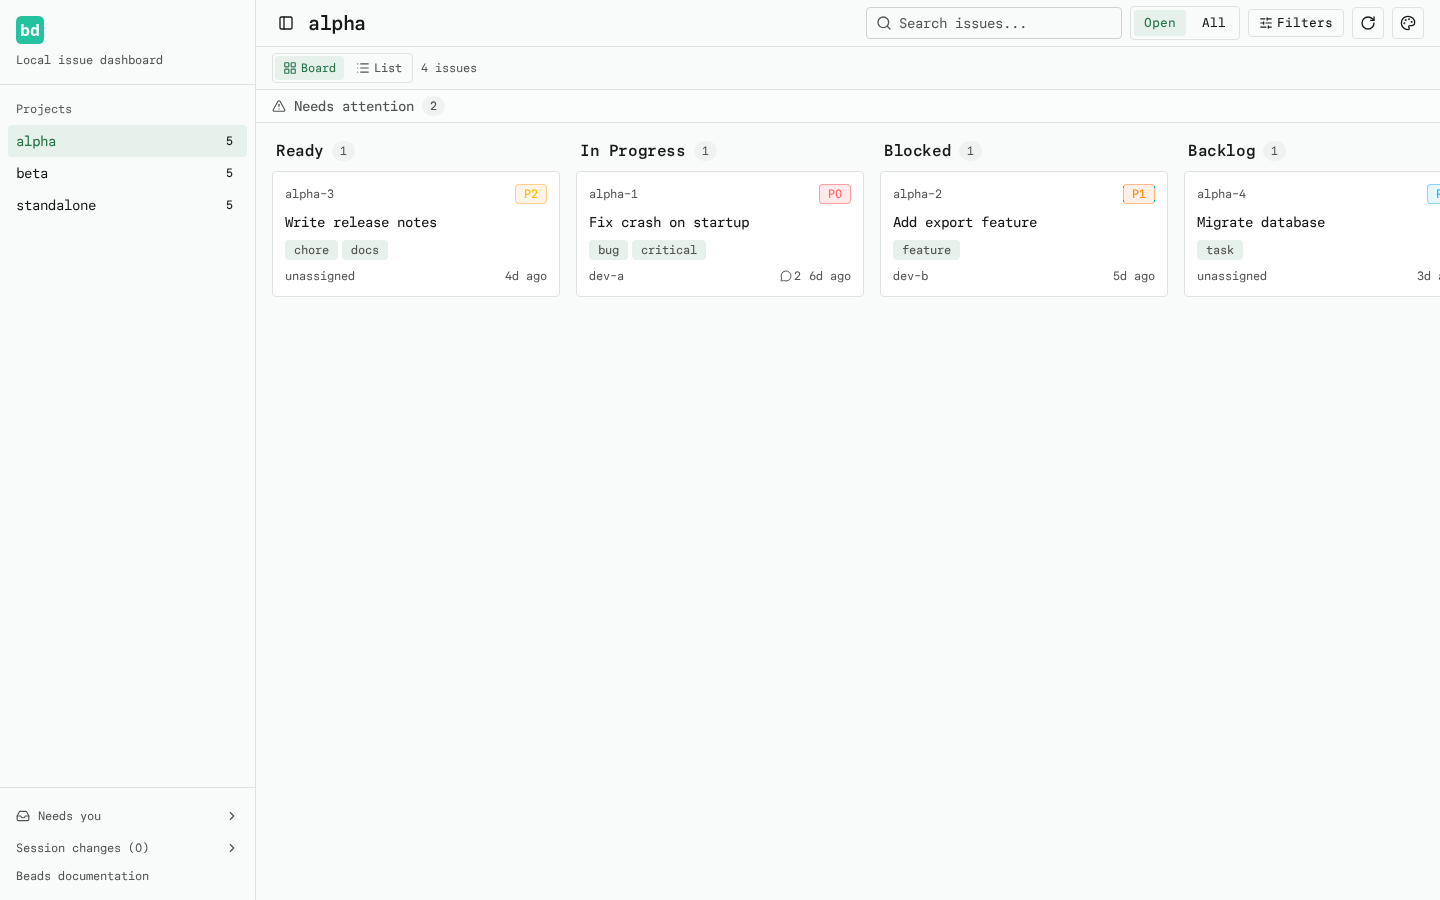
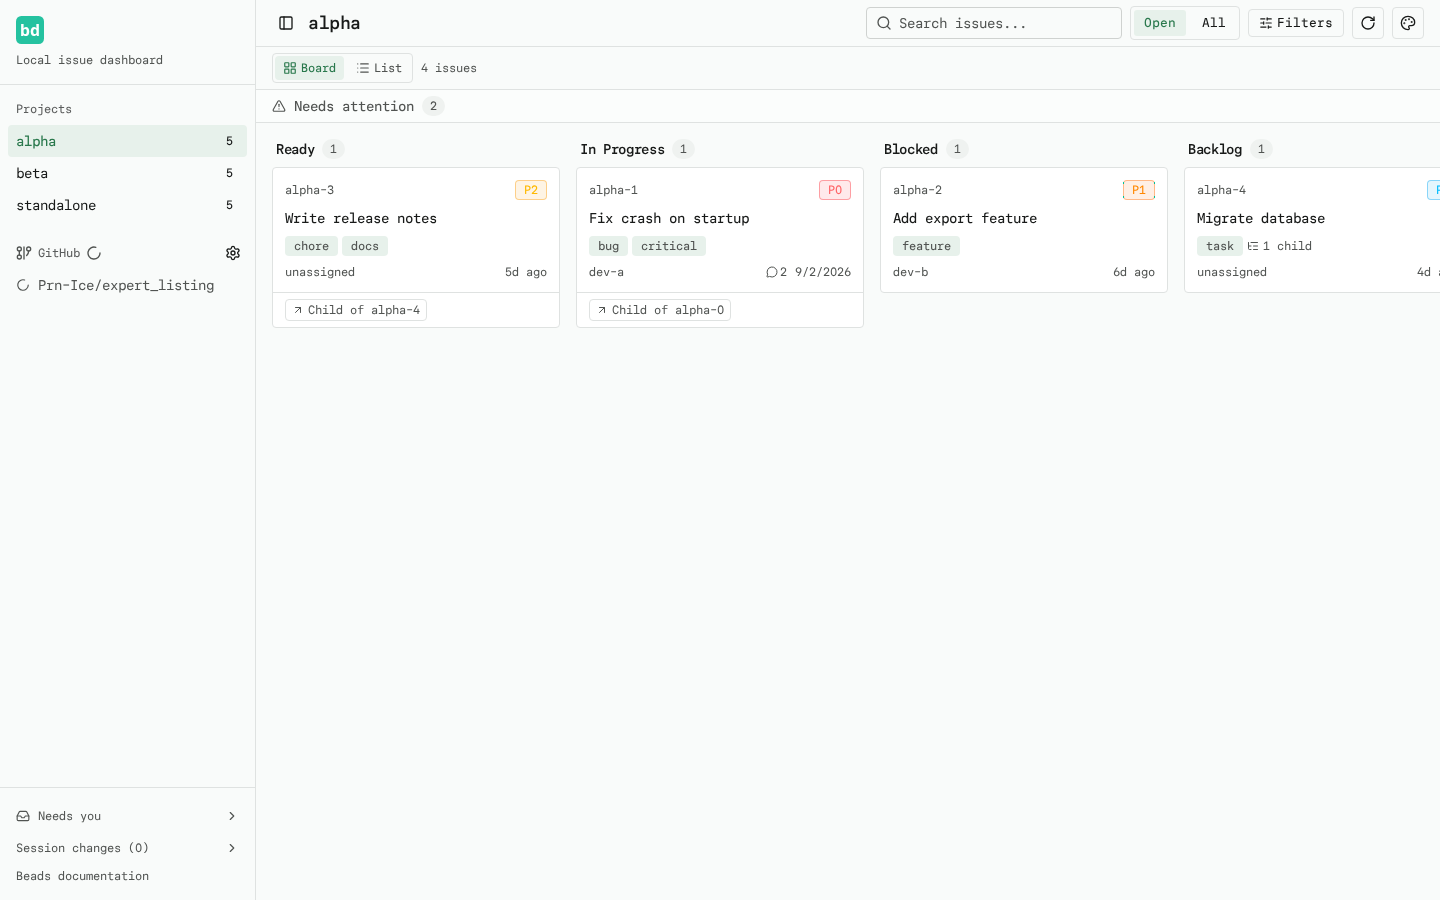
docs: refresh screenshots and list view docs

diff --git a/docs/list-view.md b/docs/list-view.md
@@ -11,15 +11,21 @@ list too). Clicking a row's title opens the same issue drawer.
 
 ## Desktop
 
-Each row shows: **ID, Title, Priority, Status, Type, Assignee, Age** (from
-`created_at`). Reused badges render priority, status, and type; age uses the
-same relative-time formatting as the board cards.
+Each row shows: **ID, Title, Priority, Status, Type, Parent, Assignee, Age**
+(from `created_at`). Reused badges render priority, status, and type; age uses
+the same relative-time formatting as the board cards.
+
+The **Parent** column shows a clickable "Child of {parent-id}" chip for issues
+with a parent and a dash for top-level issues. Clicking the chip opens the
+parent in the issue drawer. It sorts by parent id with parentless issues last
+in both directions.
 
 ## Mobile
 
 Below `md` (768px) the list renders compact **title-first rows**: a 14px medium
 title on top with a muted metadata line underneath showing the ID (mono),
-priority, status, and age. Long titles clamp to two lines and long IDs wrap, so
+priority, status, age, and a non-interactive "Child of {parent-id}" chip when
+the issue has a parent. Long titles clamp to two lines and long IDs wrap, so
 rows never force horizontal scrolling. The ID, status, and priority stay visible
 at 360/390px widths.
 
@@ -44,9 +50,12 @@ with column headers pinned; the toolbar and mobile sort controls remain visible.
 ## Files
 
 - `src/lib/list-sort.ts` — pure sorting logic + unit tests (`list-sort.test.ts`)
+- `src/lib/hierarchy.ts` — per-parent child counts + unit tests
 - `src/components/issue-list.tsx` — table (desktop) / row (mobile) view component
+- `src/components/parent-link.tsx` — the clickable "Child of" chip
+- `src/components/issue-card.tsx` — board card with parent chip and child count
 - `src/components/board.tsx` — owns the Board/List toggle and sort state
-- `tests/e2e/list-view.spec.ts` — Playwright coverage
+- `tests/e2e/list-view.spec.ts`, `tests/e2e/parent-child.spec.ts` — Playwright coverage
 
 ## Screenshots
 
